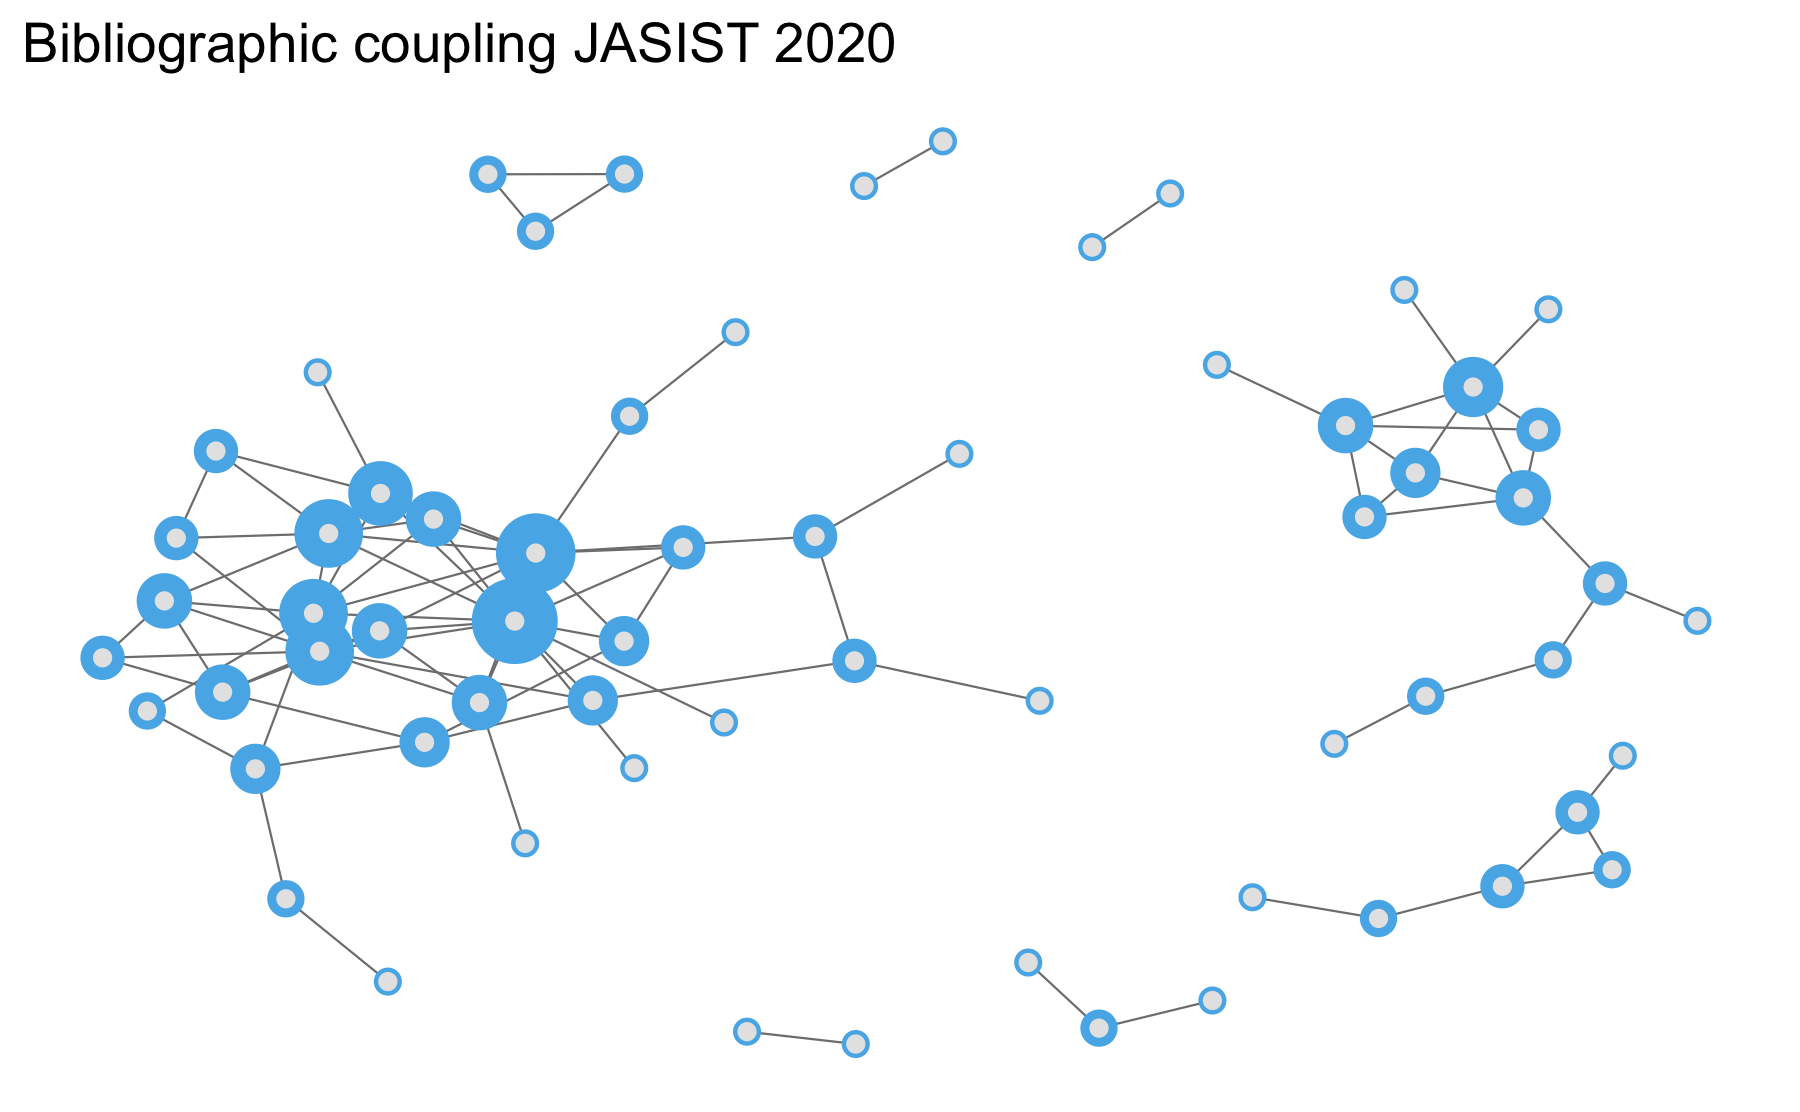
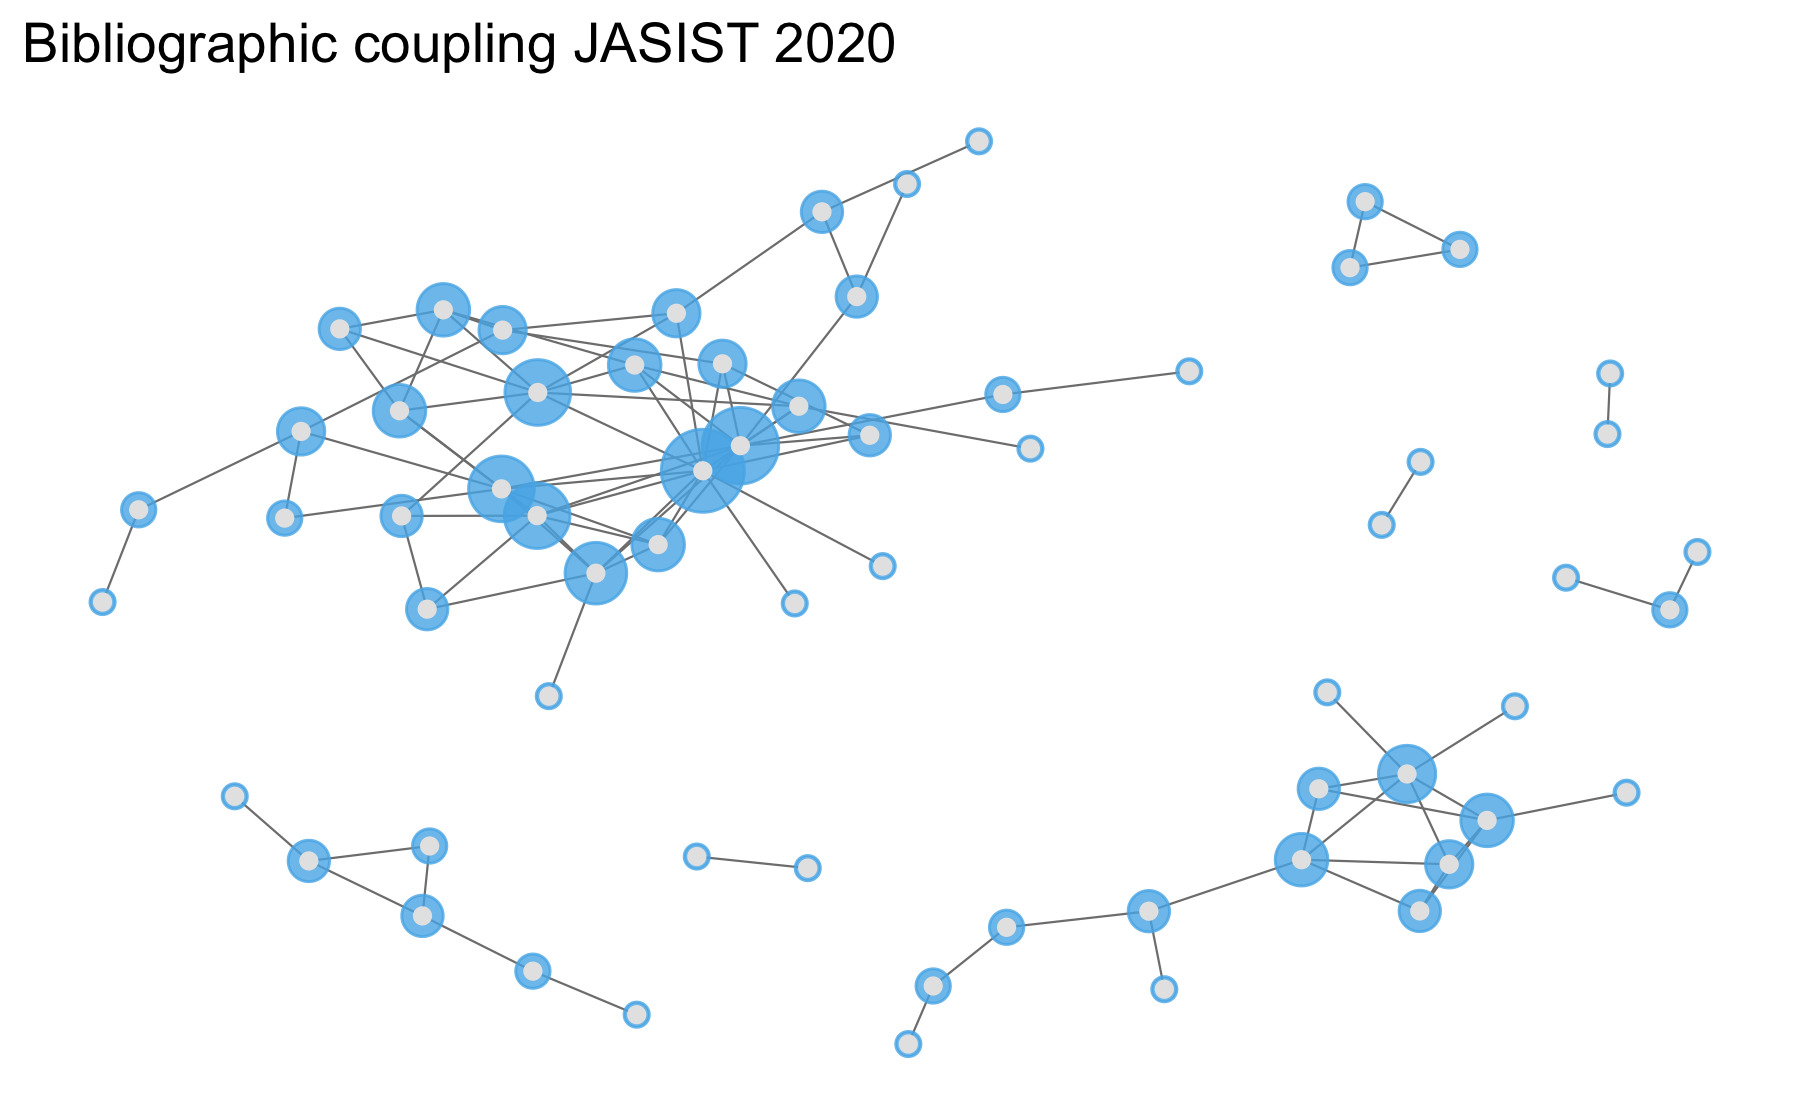
Launch Rstudio

diff --git a/uebung.md b/uebung.md
@@ -1,6 +1,10 @@
 
 ``` r
-library(tidyverse) # https://www.tidyverse.org/
+# tidyverse packages https://www.tidyverse.org/ 
+library(dplyr) 
+library(tidyr)
+library(ggplot2)
+# ropensci client for crossref
 library(rcrossref) # R Client Crossref remote::install_github("ropensci/rcrossref)
 # sna
 library(sna)
@@ -162,10 +166,10 @@ cit_df %>%
 #> # … with 2,589 more rows
 ```
 
-Matrix
+#### Zitationsmatrix und visualisierung
 
 ``` r
-# nur Artikel mit mehr als einer Zotation
+# nur Artikel mit mehr als einer Zitation
 dois_cit <- cit_df %>%
   count(ref_doi, sort = TRUE) %>%
   filter(n > 1)
@@ -190,15 +194,15 @@ Visualisierung
 
 ``` r
 net <- network::as.network.matrix(mat_t, directed = FALSE)
-ggnet::ggnet2(net, size = "degree", color = "#56b4e9") +
+ggnet::ggnet2(net, size = "degree", color = "#56b4e9", alpha = 0.8) +
   geom_point(aes(color = color), color = "grey90") +
-  guides(color = FALSE, size = FALSE) +
+  guides(color = "none", size = "none") +
   labs(title = "Bibliographic coupling JASIST 2020")
 ```
 
 ![](uebung_files/figure-gfm/unnamed-chunk-13-1.png)<!-- -->
 
-#### Co-Zitationsnetzwerk
+#### Welche Artikel werden co-zitiert in JASIST-Artikeln von 2020
 
 ``` r
 mat_t <- t(my_mat) %*% (my_mat)
@@ -210,9 +214,9 @@ Visualisierung
 
 ``` r
 net <- network::as.network.matrix(mat_t, directed = FALSE)
-ggnet::ggnet2(net, size = "degree", color = "#56b4e9") +
+ggnet::ggnet2(net, size = "degree", color = "#56b4e9", alpha = 0.8) +
   geom_point(aes(color = color), color = "grey90") +
-  guides(color = FALSE, size = FALSE) +
+  guides(color = "none", size = "none") +
   labs(title = "Co-Citation network JASIST 2020")
 ```
 

diff --git a/README.md b/README.md
@@ -1,3 +1,3 @@
 ### Praxismodul Bibliometrie M26 IBI HU
 
-https://mybinder.org/v2/gh/njahn82/ibi_net/HEAD
+https://mybinder.org/v2/gh/njahn82/ibi_net/HEAD?urlpath=rstudio
